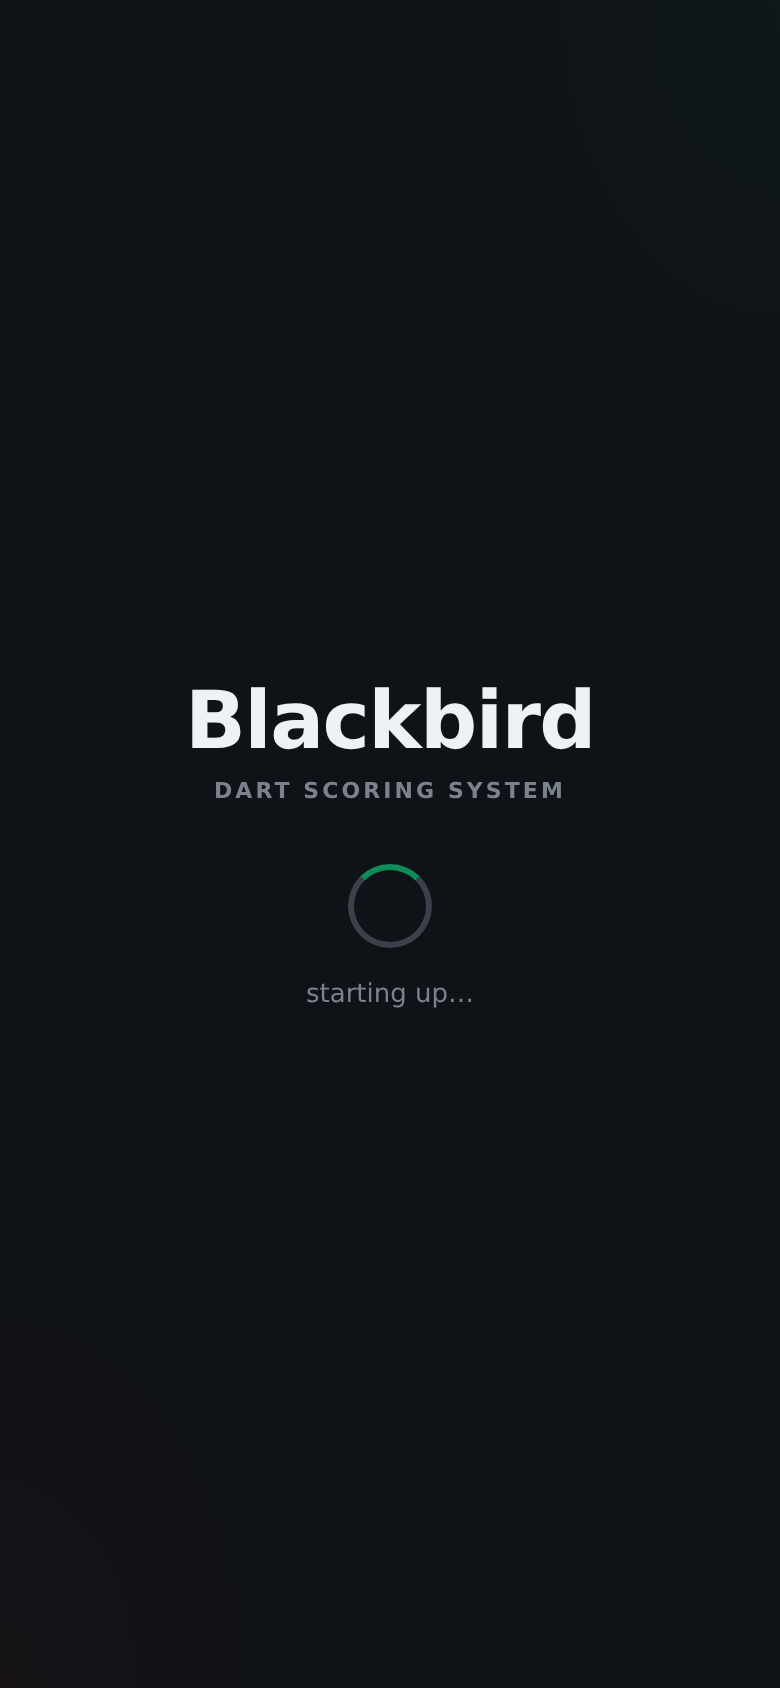
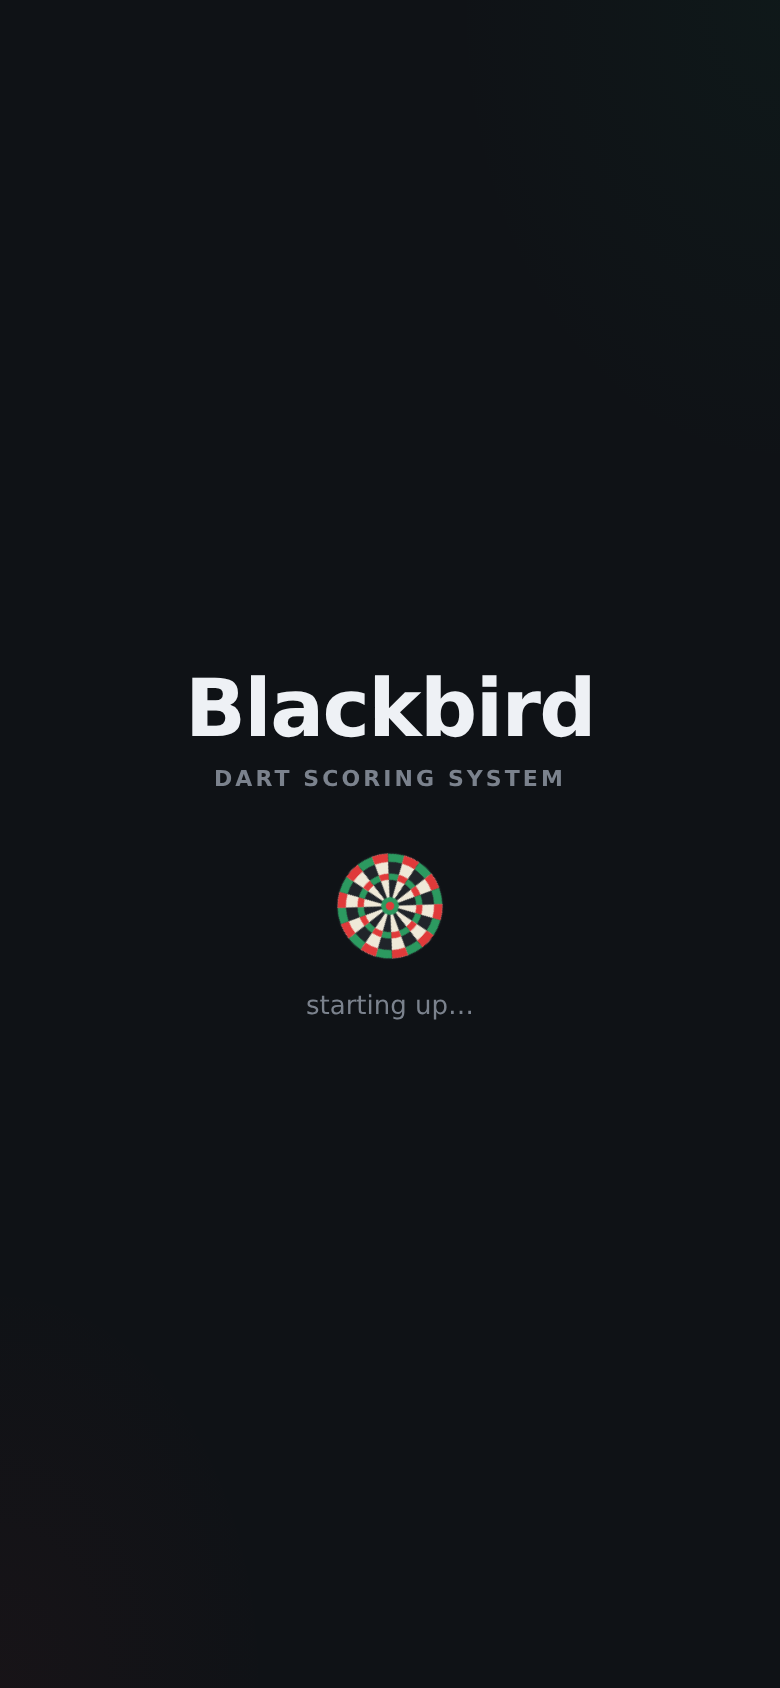
Make the splash loading wheel a spinning flat-vector mini dartboard
The ring spinner is replaced with a 54px flat SVG dartboard (alternating
wedges, double/triple rings, bull) rotating continuously. README wording
and splash screenshots updated.

Claude-Session: https://claude.ai/code/session_01QARoeoGxiKuoxC6n1iZQd3

Changed region(s): [[0.2462, 0.4005, 0.7692, 0.6161]]

diff --git a/components/LoadingScreen.js b/components/LoadingScreen.js
@@ -1,8 +1,34 @@
+function pt(r, deg) {
+  const a = (deg * Math.PI) / 180;
+  return [100 + r * Math.cos(a), 100 + r * Math.sin(a)];
+}
+
+function sector(rI, rO, a0, a1) {
+  const [x0, y0] = pt(rO, a0);
+  const [x1, y1] = pt(rO, a1);
+  const [x2, y2] = pt(rI, a1);
+  const [x3, y3] = pt(rI, a0);
+  return `M${x0} ${y0} A${rO} ${rO} 0 0 1 ${x1} ${y1} L${x2} ${y2} A${rI} ${rI} 0 0 0 ${x3} ${y3} Z`;
+}
+
+// flat mini dartboard: 20 alternating wedges + double/triple rings + bull
+const WEDGES = [];
+for (let i = 0; i < 20; i++) {
+  const c = -90 + i * 18;
+  const a0 = c - 9;
+  const a1 = c + 9;
+  const dark = i % 2 === 0;
+  WEDGES.push({ key: `s${i}`, d: sector(16, 100, a0, a1), fill: dark ? "#20242a" : "#efe9d8" });
+  WEDGES.push({ key: `d${i}`, d: sector(84, 100, a0, a1), fill: dark ? "#2c9a60" : "#e03a3a" });
+  WEDGES.push({ key: `t${i}`, d: sector(50, 62, a0, a1), fill: dark ? "#2c9a60" : "#e03a3a" });
+}
+
 /**
- * Splash shown on every app open: the Blackbird wordmark with a loading
- * wheel below it. page.js keeps this up for 1–3 seconds per open (plus
- * however long auth/data actually take) so launching always has a moment
- * of perceived loading. Honors prefers-reduced-motion.
+ * Splash shown on every app open: the Blackbird wordmark with a spinning
+ * mini dartboard as the loading wheel. page.js keeps this up for 1–3
+ * seconds per open (plus however long auth/data actually take) so
+ * launching always has a moment of perceived loading. Honors
+ * prefers-reduced-motion.
  */
 export default function LoadingScreen({ text = "loading…" }) {
   return (
@@ -10,7 +36,14 @@ export default function LoadingScreen({ text = "loading…" }) {
       <div className="load-wrap">
         <div className="load-title">Blackbird</div>
         <div className="load-sub">dart scoring system</div>
-        <span className="load-spinner" aria-hidden="true" />
+        <svg className="load-spinner" viewBox="-3 -3 206 206" aria-hidden="true">
+          <circle cx={100} cy={100} r={102} fill="#181a1f" />
+          {WEDGES.map((w) => (
+            <path key={w.key} d={w.d} fill={w.fill} />
+          ))}
+          <circle cx={100} cy={100} r={17} fill="#2c9a60" />
+          <circle cx={100} cy={100} r={8} fill="#e03a3a" />
+        </svg>
         <div className="load-status" role="status">
           {text}
         </div>

diff --git a/app/globals.css b/app/globals.css
@@ -580,13 +580,19 @@ label.check input {
   animation: load-up 0.5s 0.1s ease both;
 }
 .load-spinner {
-  width: 42px;
-  height: 42px;
+  width: 54px;
+  height: 54px;
   margin-top: 30px;
-  border-radius: 50%;
-  border: 3.5px solid var(--line-strong);
-  border-top-color: var(--accent);
-  animation: load-up 0.5s 0.2s ease both, load-spin 0.9s linear infinite;
+  display: block;
+  animation: load-fade 0.5s 0.2s ease both, load-spin 1.4s linear infinite;
+}
+@keyframes load-fade {
+  from {
+    opacity: 0;
+  }
+  to {
+    opacity: 1;
+  }
 }
 .load-status {
   margin-top: 16px;

diff --git a/README.md b/README.md
@@ -17,7 +17,7 @@ localStorage — Postgres is the single source of truth.
 
 | Loading screen | Loading (dark) | Home |
 |:---:|:---:|:---:|
-| <img src="docs/screenshots/loading-light.png" width="240" alt="Blackbird splash: wordmark with loading wheel, light theme"> | <img src="docs/screenshots/loading-dark.png" width="240" alt="Blackbird splash: wordmark with loading wheel, dark theme"> | <img src="docs/screenshots/home.png" width="240" alt="Home view with quick stats and top players"> |
+| <img src="docs/screenshots/loading-light.png" width="240" alt="Blackbird splash: wordmark with spinning dartboard wheel, light theme"> | <img src="docs/screenshots/loading-dark.png" width="240" alt="Blackbird splash: wordmark with spinning dartboard wheel, dark theme"> | <img src="docs/screenshots/home.png" width="240" alt="Home view with quick stats and top players"> |
 
 | Live cricket (MPR column) | Cricket leaderboard | Game setup |
 |:---:|:---:|:---:|
@@ -30,7 +30,8 @@ localStorage — Postgres is the single source of truth.
 ## What it is (at a glance)
 
 - **Launch splash**: every open starts with the Blackbird wordmark and a
-  loading wheel, held for 1–3 seconds, in the user's light or dark theme.
+  spinning mini dartboard (flat vector) as the loading wheel, held for 1–3
+  seconds, in the user's light or dark theme.
 - **Games**: X01 with optional double-out, Cricket (3 variants), Baseball
   (9 innings + extra innings on ties).
 - **Cricket MPR**: live **marks-per-round** for every player while the game is
@@ -98,8 +99,8 @@ Key design points:
 ## How the app works
 
 1. **Open the app** — a branded splash (the Blackbird wordmark with a
-   loading wheel) shows for 1–3 seconds on every launch while auth and data
-   load behind it.
+   spinning mini dartboard as the loading wheel) shows for 1–3 seconds on
+   every launch while auth and data load behind it.
 2. **Sign in** (Supabase email/password). Your display name is auto-added to
    the shared `players` list so everyone can pick you as an opponent.
 3. **Setup** a game: pick the game type and options (start score + double-out
